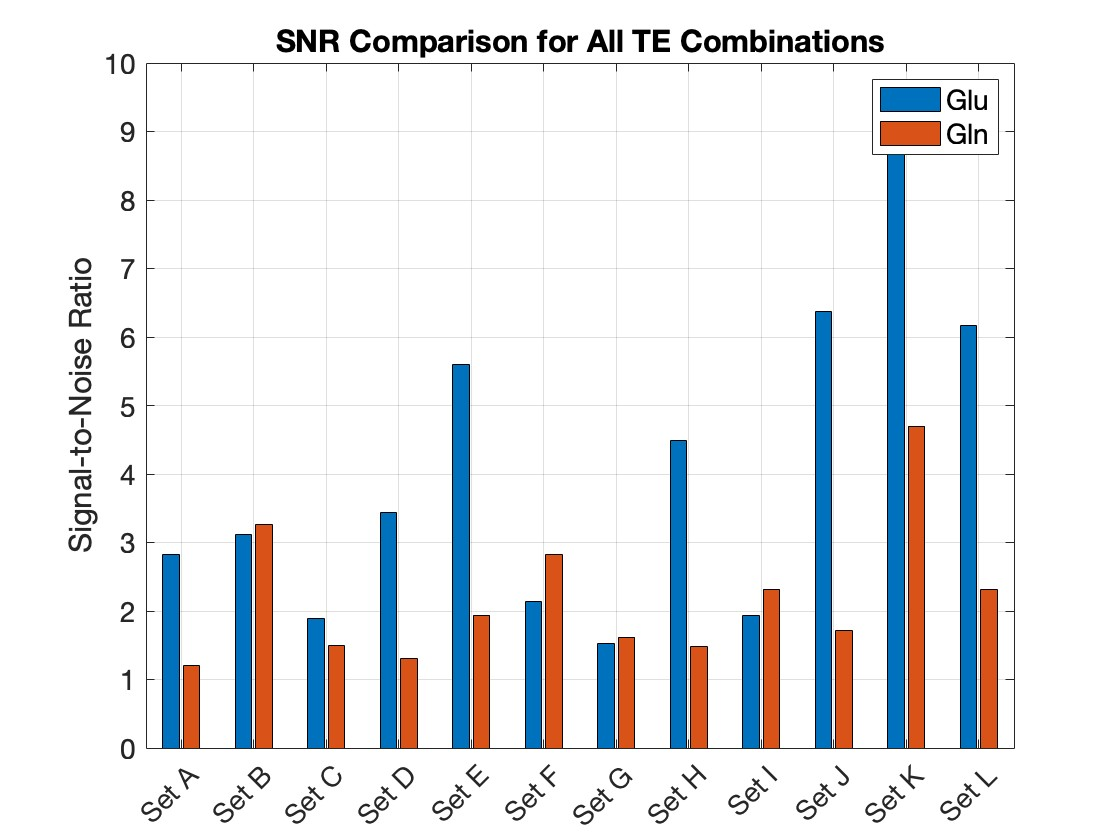
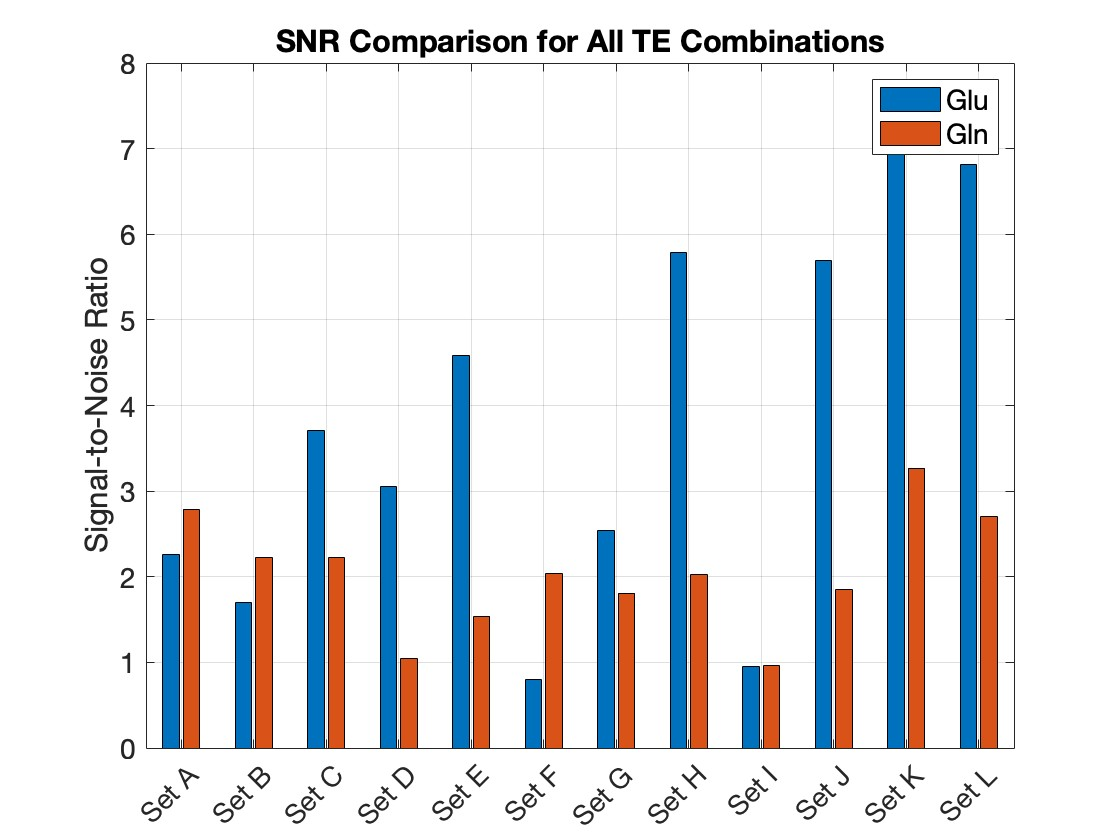
Updated images

diff --git a/Aim 2 /Hybrid-TE/CRLB_estimation_05_Glu_Gln_KC.m b/Aim 2 /Hybrid-TE/CRLB_estimation_05_Glu_Gln_KC.m
@@ -327,22 +327,22 @@ sets = {'Set A', 'Set B', 'Set C', 'Set D', 'Set E', 'Set F', 'Set G', ...
          'Set H', 'Set I', 'Set J', 'Set K', 'Set L'};
 
 % ----- Updated CRLB Data -----
-crlb_glu  = [7.24, 7.46, 8.23, 5.06, 2.29, 6.98, 7.41, 4.3, 6.57, 2.24, 2.08, 2.03];  % Glu CRLB (%)
-crlb_gln  = [28.23, 25.93, 26.76, 22.67, 8.18, 28.31, 27.86, 17.78, 25.51, 7.97, 7.32, 7.06];  % Gln CRLB (%)
+crlb_glu  = [7.24, 7.46, 8.23, 5.06, 2.29, 6.98, 7.41, 4.30, 6.57, 2.24, 2.08, 2.03];  % Glu CRLB
+crlb_gln  = [28.23, 25.93, 26.76, 22.67, 8.18, 28.31, 27.86, 17.78, 25.51, 7.97, 7.32, 7.06];  % Gln CRLB
 
-% ----- Updated Monte Carlo CV Data -----
-cv_glu    = [6.36, 6.55, 8.67, 5.35, 2.43, 6.3, 7.75, 4.16, 7.13, 2.62, 2.01, 2.54];  % Glu CV (%)
-cv_gln    = [77.05, 81.82, 64.17, 65.62, 28.07, 88.97, 78.61, 55.03, 73.52, 33.29, 23.64, 31.13];  % Gln CV (%)
+% ----- Updated Monte Carlo CV Data (no percent signs) -----
+cv_glu    = [7.40, 7.28, 7.40, 5.39, 2.25, 6.92, 7.49, 4.74, 6.94, 2.45, 2.00, 2.31];  % Glu CV
+cv_gln    = [24.07, 24.27, 24.36, 22.87, 8.29, 23.61, 23.63, 20.00, 24.76, 8.99, 7.55, 8.15];  % Gln CV
 
 % ----- Updated SNR Data -----
-snr_glu   = [2.83, 3.12, 1.887, 3.44, 5.6, 2.14, 1.52, 4.49, 1.93, 6.37, 9.13, 6.17]; % Glu SNR
-snr_gln   = [1.2, 3.26, 1.49, 1.3, 1.94, 2.82, 1.62, 1.48, 2.32, 1.72, 4.7, 2.31];    % Gln SNR
+snr_glu   = [2.26, 1.70, 3.71, 3.05, 4.58, 0.80, 2.54, 5.79, 0.95, 5.69, 7.67, 6.81]; % Glu SNR
+snr_gln   = [2.79, 2.22, 2.22, 1.05, 1.54, 2.04, 1.81, 2.03, 0.96, 1.85, 3.27, 2.70];  % Gln SNR
 
 % ----- Plot CRLB -----
 figure;
 bar([crlb_glu; crlb_gln]', 'grouped');
 title('CRLB Comparison for All TE Combinations', 'FontSize', 16, 'FontWeight', 'bold');
-ylabel('CRLB (%)', 'FontSize', 16);
+ylabel('CRLB', 'FontSize', 16);
 set(gca, 'XTickLabel', sets, 'FontSize', 14, 'XTickLabelRotation', 45);
 legend({'Glu', 'Gln'}, 'Location', 'northeast', 'FontSize', 14);
 grid on;
@@ -350,8 +350,8 @@ grid on;
 % ----- Plot Monte Carlo CV -----
 figure;
 bar([cv_glu; cv_gln]', 'grouped');
-title('Monte Carlo CV (%) for All TE Combinations', 'FontSize', 16, 'FontWeight', 'bold');
-ylabel('Coefficient of Variation (%)', 'FontSize', 16);
+title('Monte Carlo Coefficient of Variation for All TE Combinations', 'FontSize', 16, 'FontWeight', 'bold');
+ylabel('Coefficient of Variation', 'FontSize', 16);
 set(gca, 'XTickLabel', sets, 'FontSize', 14, 'XTickLabelRotation', 45);
 legend({'Glu', 'Gln'}, 'Location', 'northeast', 'FontSize', 14);
 grid on;
